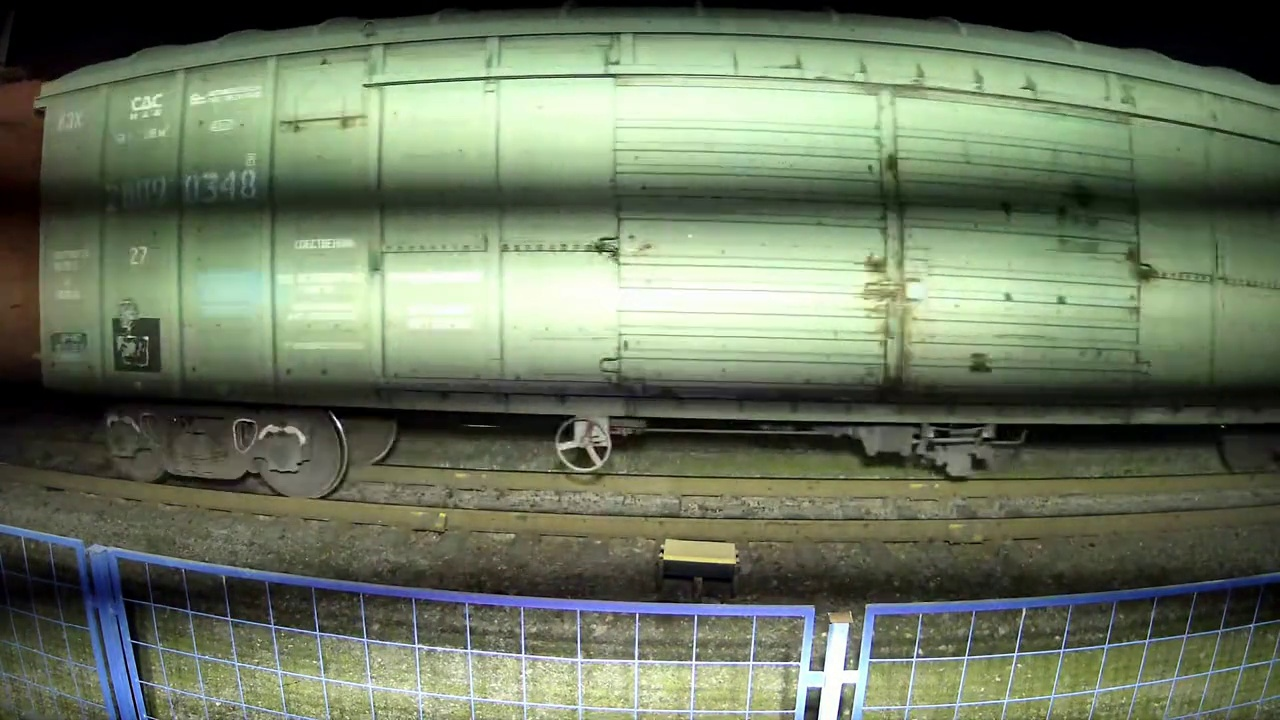
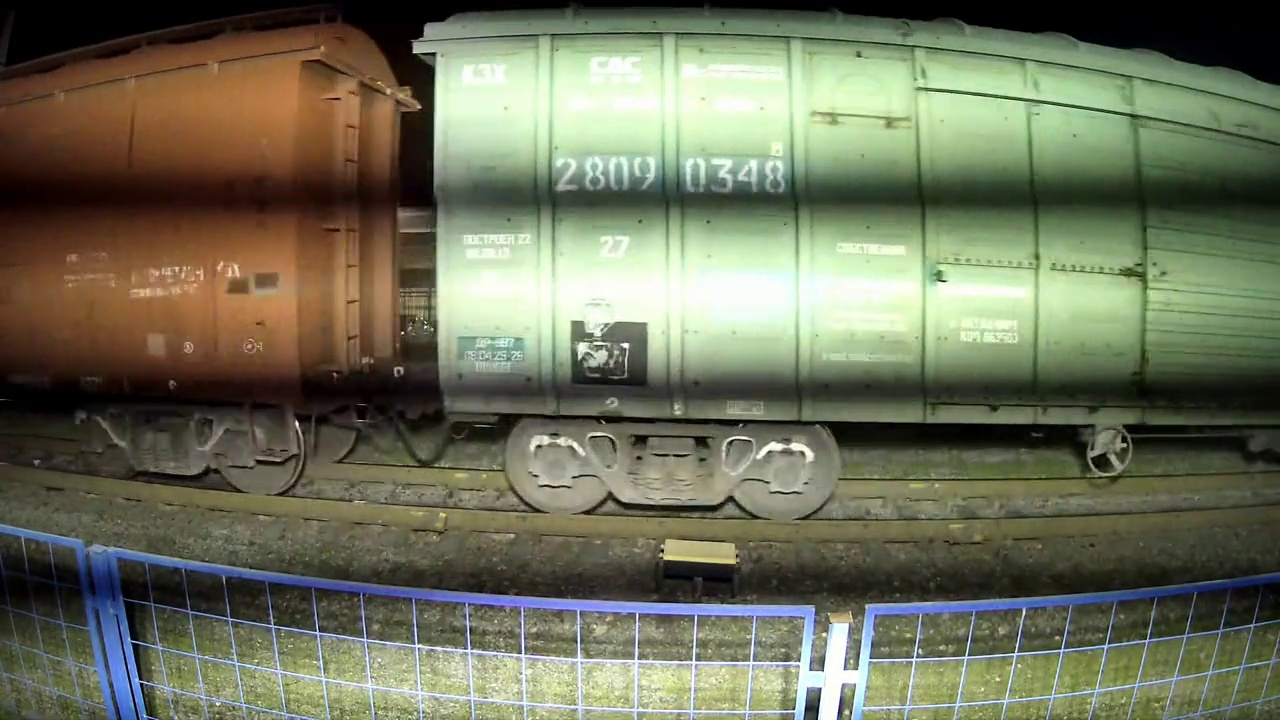
401

diff --git a/threads/upload.py b/threads/upload.py
@@ -40,19 +40,20 @@ class BackupUploadThread(QThread):
     upload_signal = pyqtSignal(bool, dict)
     error_signal = pyqtSignal(str)
 
-    def __init__(self, login_data: dict, bs_url: str):
+    def __init__(self, login_data: dict, bs_url: str, login_url: str | None = None):
         super().__init__()
         self.login_data: dict = login_data
         self.bs_url: str = bs_url
+        self.login_url: str | None = login_url
         self.backup_db = BufferDB()
         self.headers: dict = {
-            "Authorization": f"Bearer {get_token(data=self.login_data, bs_url=bs_url)}",
+            "Authorization": f"Bearer {get_token(data=self.login_data, login_url=login_url)}",
             "Content-Type": "application/json",
         }
 
     def _refresh_token(self) -> bool:
         try:
-            new_token = refresh_token(data=self.login_data, bs_url=self.bs_url)
+            new_token = refresh_token(data=self.login_data, login_url=self.login_url)
             if new_token and new_token != "TOKEN_OLINMADI":
                 self.headers["Authorization"] = f"Bearer {new_token}"
                 return True
@@ -128,16 +129,17 @@ class UploadThread(QThread):
 
     def __init__(self, data: SendingData, img_id: Union[np.ndarray, None],
                  img_id2: Union[np.ndarray, None], img_number: Union[np.ndarray, None],
-                 bs_url: str, login_data: dict):
+                 bs_url: str, login_data: dict, login_url: str | None = None):
         super().__init__()
         self.base_url: str = bs_url
         self.login_data: dict = login_data
+        self.login_url: str | None = login_url
         self.backup_db = BufferDB()
         self.img_id = img_id
         self.img_id2 = img_id2
         self.img_number = img_number
         self.headers: dict = {
-            "Authorization": f"Bearer {get_token(data=self.login_data, bs_url=bs_url)}",
+            "Authorization": f"Bearer {get_token(data=self.login_data, login_url=login_url)}",
             "Content-Type": "application/json",
         }
         self.data: dict = {
@@ -151,7 +153,7 @@ class UploadThread(QThread):
     def _refresh_token(self) -> bool:
         """Token yangilaydi. Muvaffaqiyatli bo'lsa True qaytaradi."""
         try:
-            new_token = refresh_token(data=self.login_data, bs_url=self.base_url)
+            new_token = refresh_token(data=self.login_data, login_url=self.login_url)
             if new_token and new_token != "TOKEN_OLINMADI":
                 self.headers["Authorization"] = f"Bearer {new_token}"
                 return True

diff --git a/network/api.py b/network/api.py
@@ -62,14 +62,15 @@ def check_internet_connection() -> bool:
         return False
 
 
-def get_token(data: dict, bs_url: str = base_url) -> str:
+def get_token(data: dict, login_url: str | None = None) -> str:
     token = "TOKEN_OLINMADI"
+    _login_url = login_url or get_token_url
     try:
         tokens = cipher.read_bin_file(file_path="settings/tkn.bin")
         if tokens:
             return str(tokens[0]).strip()
         log(message="Token Not Found settings/tkn.bin", level="WARNING")
-        login(url=bs_url, data=data)
+        login(url=_login_url, data=data)
         tokens = cipher.read_bin_file(file_path="settings/tkn.bin")
         if tokens:
             return str(tokens[0]).strip()
@@ -78,14 +79,14 @@ def get_token(data: dict, bs_url: str = base_url) -> str:
     return token
 
 
-def refresh_token(data: dict, bs_url: str = base_url) -> str:
+def refresh_token(data: dict, login_url: str | None = None) -> str:
     """Kesh tokenni o'chirib, serverdan yangi token oladi (401 bo'lganda ishlatiladi)."""
     try:
         if os.path.exists("settings/tkn.bin"):
             os.remove("settings/tkn.bin")
     except Exception as err:
         log(message=f"[api.refresh_token] tkn.bin o'chirishda xato: {err}")
-    return get_token(data=data, bs_url=bs_url)
+    return get_token(data=data, login_url=login_url)
 
 
 def image_to_base64(img: np.ndarray | None) -> str | None:

diff --git a/ui/app_upload.py b/ui/app_upload.py
@@ -8,9 +8,9 @@ from PyQt6.QtWidgets import QMessageBox
 from core.config import (
     log, identifier, num_count,
     AUTO, BTN_DISABLE, SCALE_CODE, STATION_CODE,
-    USERNAME, PASSWORD, BASE_URL, UPLOAD_URL,
+    USERNAME, PASSWORD, BASE_URL, UPLOAD_URL, LOGIN_URL,
     default_station_code, default_scale_code, default_username, default_password,
-    post_url, base_url, min_send_kg,
+    post_url, base_url, get_token_url, min_send_kg,
     wagonNumber, wagonAttachId, wagonAttachId2, wagonNumberAttachId,
 )
 from core.database import current_time
@@ -96,6 +96,7 @@ class UploadMixin:
             bs_url=self.config.get(BASE_URL, base_url),
             login_data={"login": self.config.get(USERNAME, default_username),
                         "password": self.config.get(PASSWORD, default_password)},
+            login_url=self.config.get(LOGIN_URL, get_token_url),
         )
 
     def send(self):

diff --git a/ui/app_mixins.py b/ui/app_mixins.py
@@ -150,7 +150,8 @@ class ThemeMixin:
         self.backup_thread = BackupUploadThread(
             bs_url=self.config.get(UPLOAD_URL, post_url),
             login_data={"login": self.config.get(USERNAME, default_username),
-                        "password": self.config.get(PASSWORD, default_password)}
+                        "password": self.config.get(PASSWORD, default_password)},
+            login_url=self.config.get(LOGIN_URL, get_token_url),
         )
         self.backup_thread.upload_signal.connect(self.backup_upload_response)
         self.backup_thread.error_signal.connect(self.backup_upload_error)

diff --git a/ui/main_window.py b/ui/main_window.py
@@ -669,7 +669,8 @@ class App(QMainWindow):
             login_data={
                 "login": self.config.get(USERNAME, default_username),
                 "password": self.config.get(PASSWORD, default_password)
-            }
+            },
+            login_url=self.config.get(LOGIN_URL, get_token_url),
         )
         self.backup_thread.upload_signal.connect(self.backup_upload_response)
         self.backup_thread.error_signal.connect(self.backup_upload_error)
